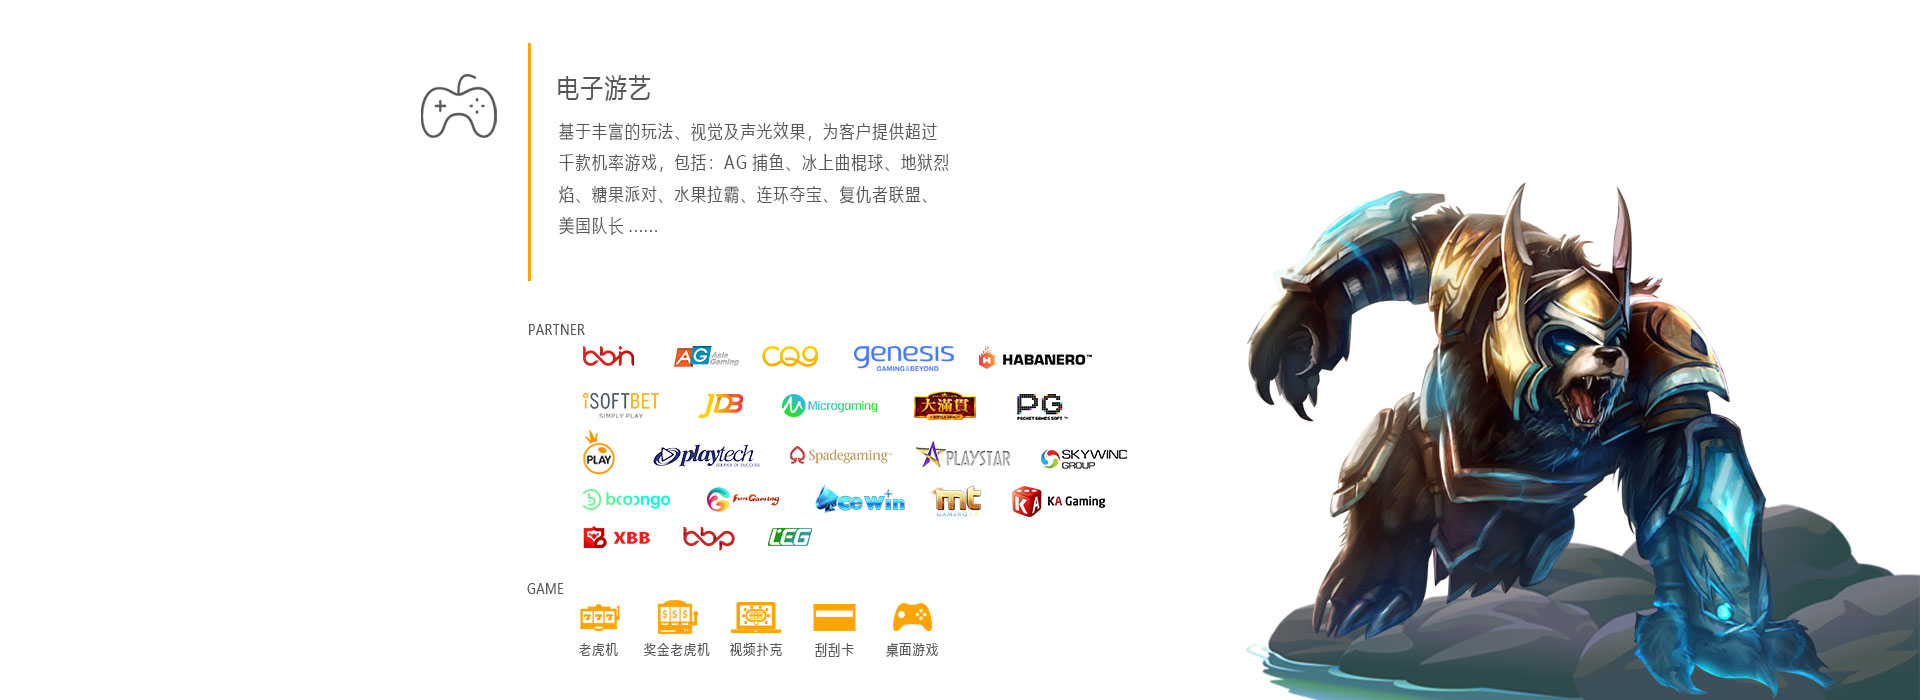
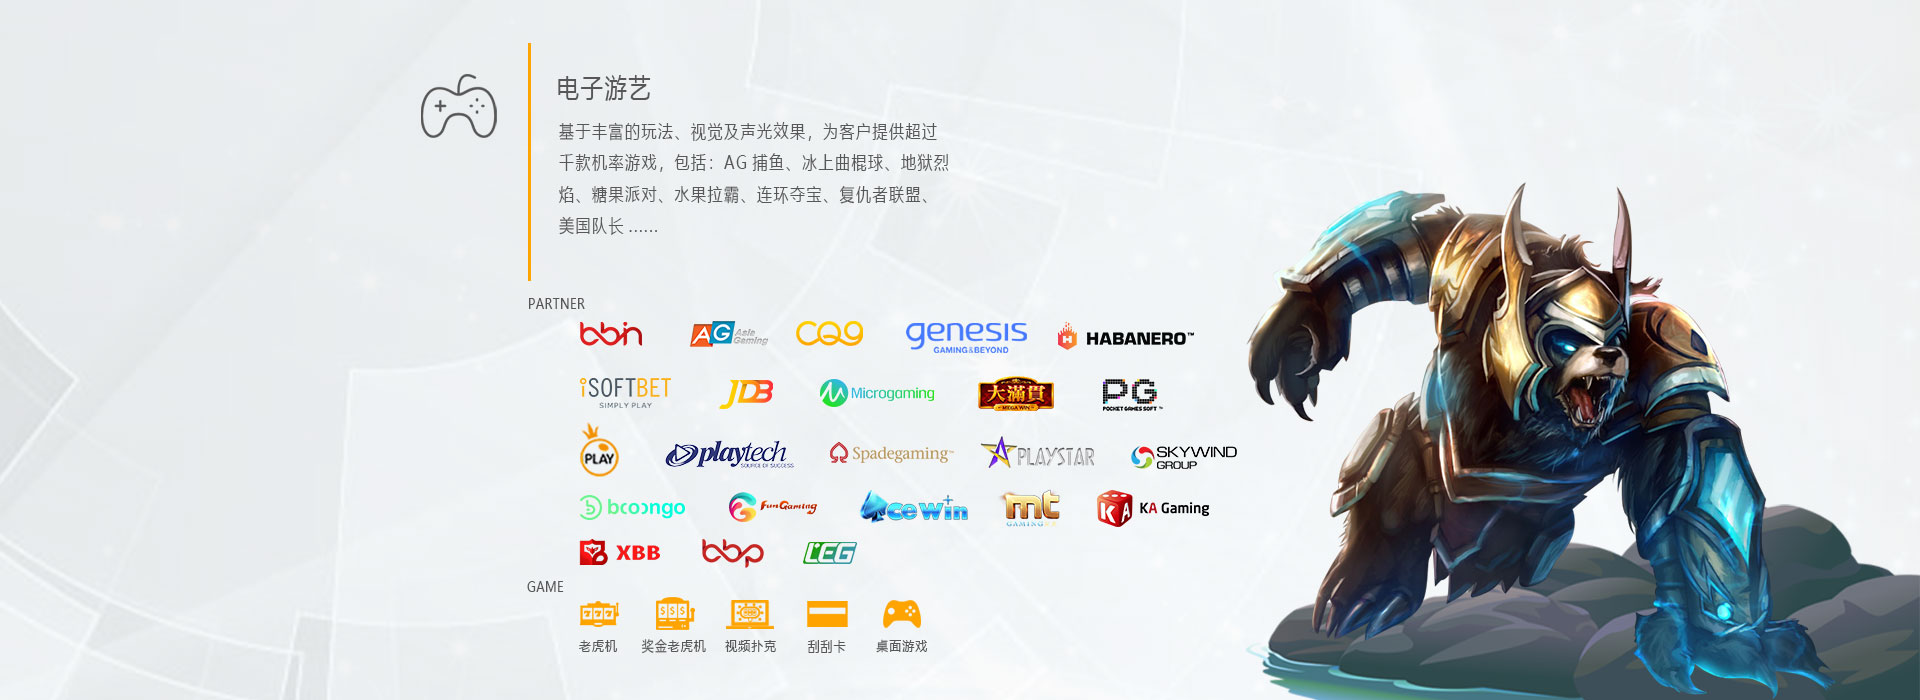
1110 :  some bug fix & new image

diff --git a/src/views/System.vue b/src/views/System.vue
@@ -1,7 +1,7 @@
 <template>
   <v-container class="fullwidth">
     <v-content>
-      <v-row class="text-center">
+      <v-row class="text-center mt-sm-7">
         <v-col md="12" class="nopadding mt-sm-9 hidden-xs-only">
           <v-img
             src="../assets/System/Banner.jpg"
@@ -138,7 +138,19 @@
           </div>
         </v-col>
         <v-col md="12" class="hidden-sm-and-down">
-          <v-img src="../assets/System/global.png" contain height="500"></v-img>
+          <v-lazy
+            transition="scroll-y-reverse-transition"
+            hide-on-leave
+            :options="{
+              threshold: 0.5,
+            }"
+          >
+            <v-img
+              src="../assets/System/global.png"
+              contain
+              height="500"
+            ></v-img>
+          </v-lazy>
         </v-col>
 
         <v-col sm="4" class="hidden-md-and-up">

diff --git a/src/views/Product.vue b/src/views/Product.vue
@@ -1,7 +1,7 @@
 <template>
   <v-container class="fullwidth">
-    <v-content class="mt-sm-5 mt-md-5">
-      <v-row class="text-center">
+    <v-content class="">
+      <v-row class="text-center mt-n4 mt-sm-15">
         <v-col cols="12" class="nopadding">
           <carousel-3d
             autoplay="true"

diff --git a/src/views/Partner.vue b/src/views/Partner.vue
@@ -1,7 +1,7 @@
 <template>
   <v-container class="fullwidth">
-    <v-content class="mt-n4 mt-sm-7">
-      <v-row>
+    <v-content>
+      <v-row class="mt-n4 mt-sm-15">
         <v-col md="12" class="nopadding">
           <v-img
             src="../assets/Partner/SLOT.jpg"

diff --git a/src/App.vue b/src/App.vue
@@ -107,7 +107,7 @@
       </v-list>
     </v-navigation-drawer>
 
-    <router-view />
+    <router-view transition="v-scroll-x-reverse-transition"></router-view>
 
     <v-footer color="grey lighten-5 hidden-sm-and-down" elevation="3">
       <v-row justify="center">

diff --git a/src/views/Connection.vue b/src/views/Connection.vue
@@ -1,7 +1,7 @@
 <template>
   <v-container>
-    <v-content class="mt-8">
-      <v-row>
+    <v-content>
+      <v-row class=" mt-md-8 mt-sm-n2">
         <v-col md="12">
           <v-card elevation="2">
             <v-row>
